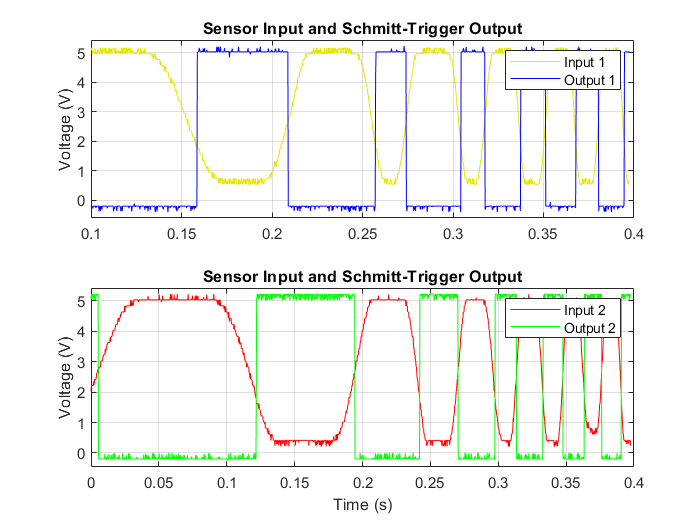
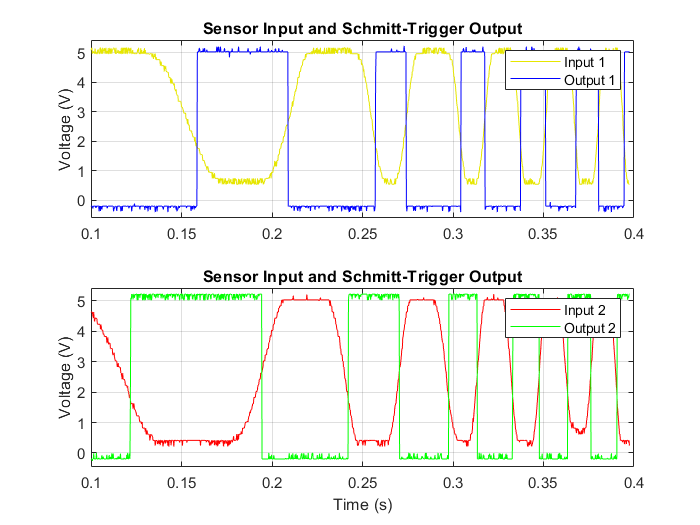
schmitt trigger

diff --git a/Control/Measurements_control/parameter_estimation_rpm_test_1.m b/Control/Measurements_control/parameter_estimation_rpm_test_1.m
@@ -1,0 +1,57 @@
+% Initialize arrays to accumulate the data
+allTime = [];
+allVoltage1 = [];
+allRPM = [];
+
+% Loop through each .csv file and process data
+for i = 1:length(csvFiles)
+    % Construct the full file path
+    filePath = fullfile(folderPath, csvFiles(i).name);
+    
+    % Read the CSV file (assuming no headers, format: time, voltage1, voltage2, voltage3)
+    data = readmatrix(filePath);
+    
+    % Extract time and relevant signals
+    time = data(:, 1);       % Time column
+    pwmSignal = data(:, 2);  % PWM Signal
+    encoderSignal = data(:, 3); % Encoder Output Signal
+    
+    % Detect rising edges in the encoder signal
+    pulseDiff = diff(encoderSignal); % Detect changes in the encoder signal
+    risingEdgeIndices = find(pulseDiff > 0); % Indices of rising edges
+    
+    % Calculate instantaneous RPM for each rising edge
+    if ~isempty(risingEdgeIndices)
+        timeIntervals = diff(time(risingEdgeIndices)); % Time between rising edges
+        pulseRate = 1 ./ timeIntervals; % Pulses per second
+        rpm = (pulseRate * 60) / pulsesPerRevolution; % Convert to RPM
+        
+        % Align RPM with time
+        rpmTime = time(risingEdgeIndices(2:end)); % Exclude the first rising edge (no interval before it)
+        interpolatedRPM = interp1(rpmTime, rpm, time, 'previous', 'extrap'); % Interpolate RPM over time
+    else
+        interpolatedRPM = zeros(size(time)); % No pulses detected, RPM is zero
+    end
+    
+    % Store results
+    allTime = [allTime; time];
+    allVoltage1 = [allVoltage1; pwmSignal];
+    allRPM = [allRPM; interpolatedRPM];
+end
+
+% Plot PWM Signal and RPM
+figure;
+
+yyaxis left; % Left y-axis for PWM signal
+plot(allTime, allVoltage1, 'b', 'DisplayName', 'PWM Signal', 'LineWidth', 1);
+ylabel('PWM Signal (V)');
+xlabel('Time (s)');
+title('PWM Signal and Encoder RPM');
+hold on;
+
+yyaxis right; % Right y-axis for RPM
+plot(allTime, allRPM, 'r', 'DisplayName', 'Angular Velocity (RPM)', 'LineWidth', 1);
+ylabel('RPM');
+
+legend('show');
+grid on;

diff --git a/Control/Smitt_trigger/schmitt_trigger.m b/Control/Smitt_trigger/schmitt_trigger.m
@@ -27,7 +27,7 @@ ylabel("Voltage (V)")
 title("Sensor Input and Schmitt-Trigger Output")
 legend("Input 2", "Output 2")
 grid on;
-xlim([0 0.4])
+xlim([0.1 0.4])
 ylim([min(data.Var4)-0.2 max(data.Var4)+0.2])
 yticks(0:1:5);
 
